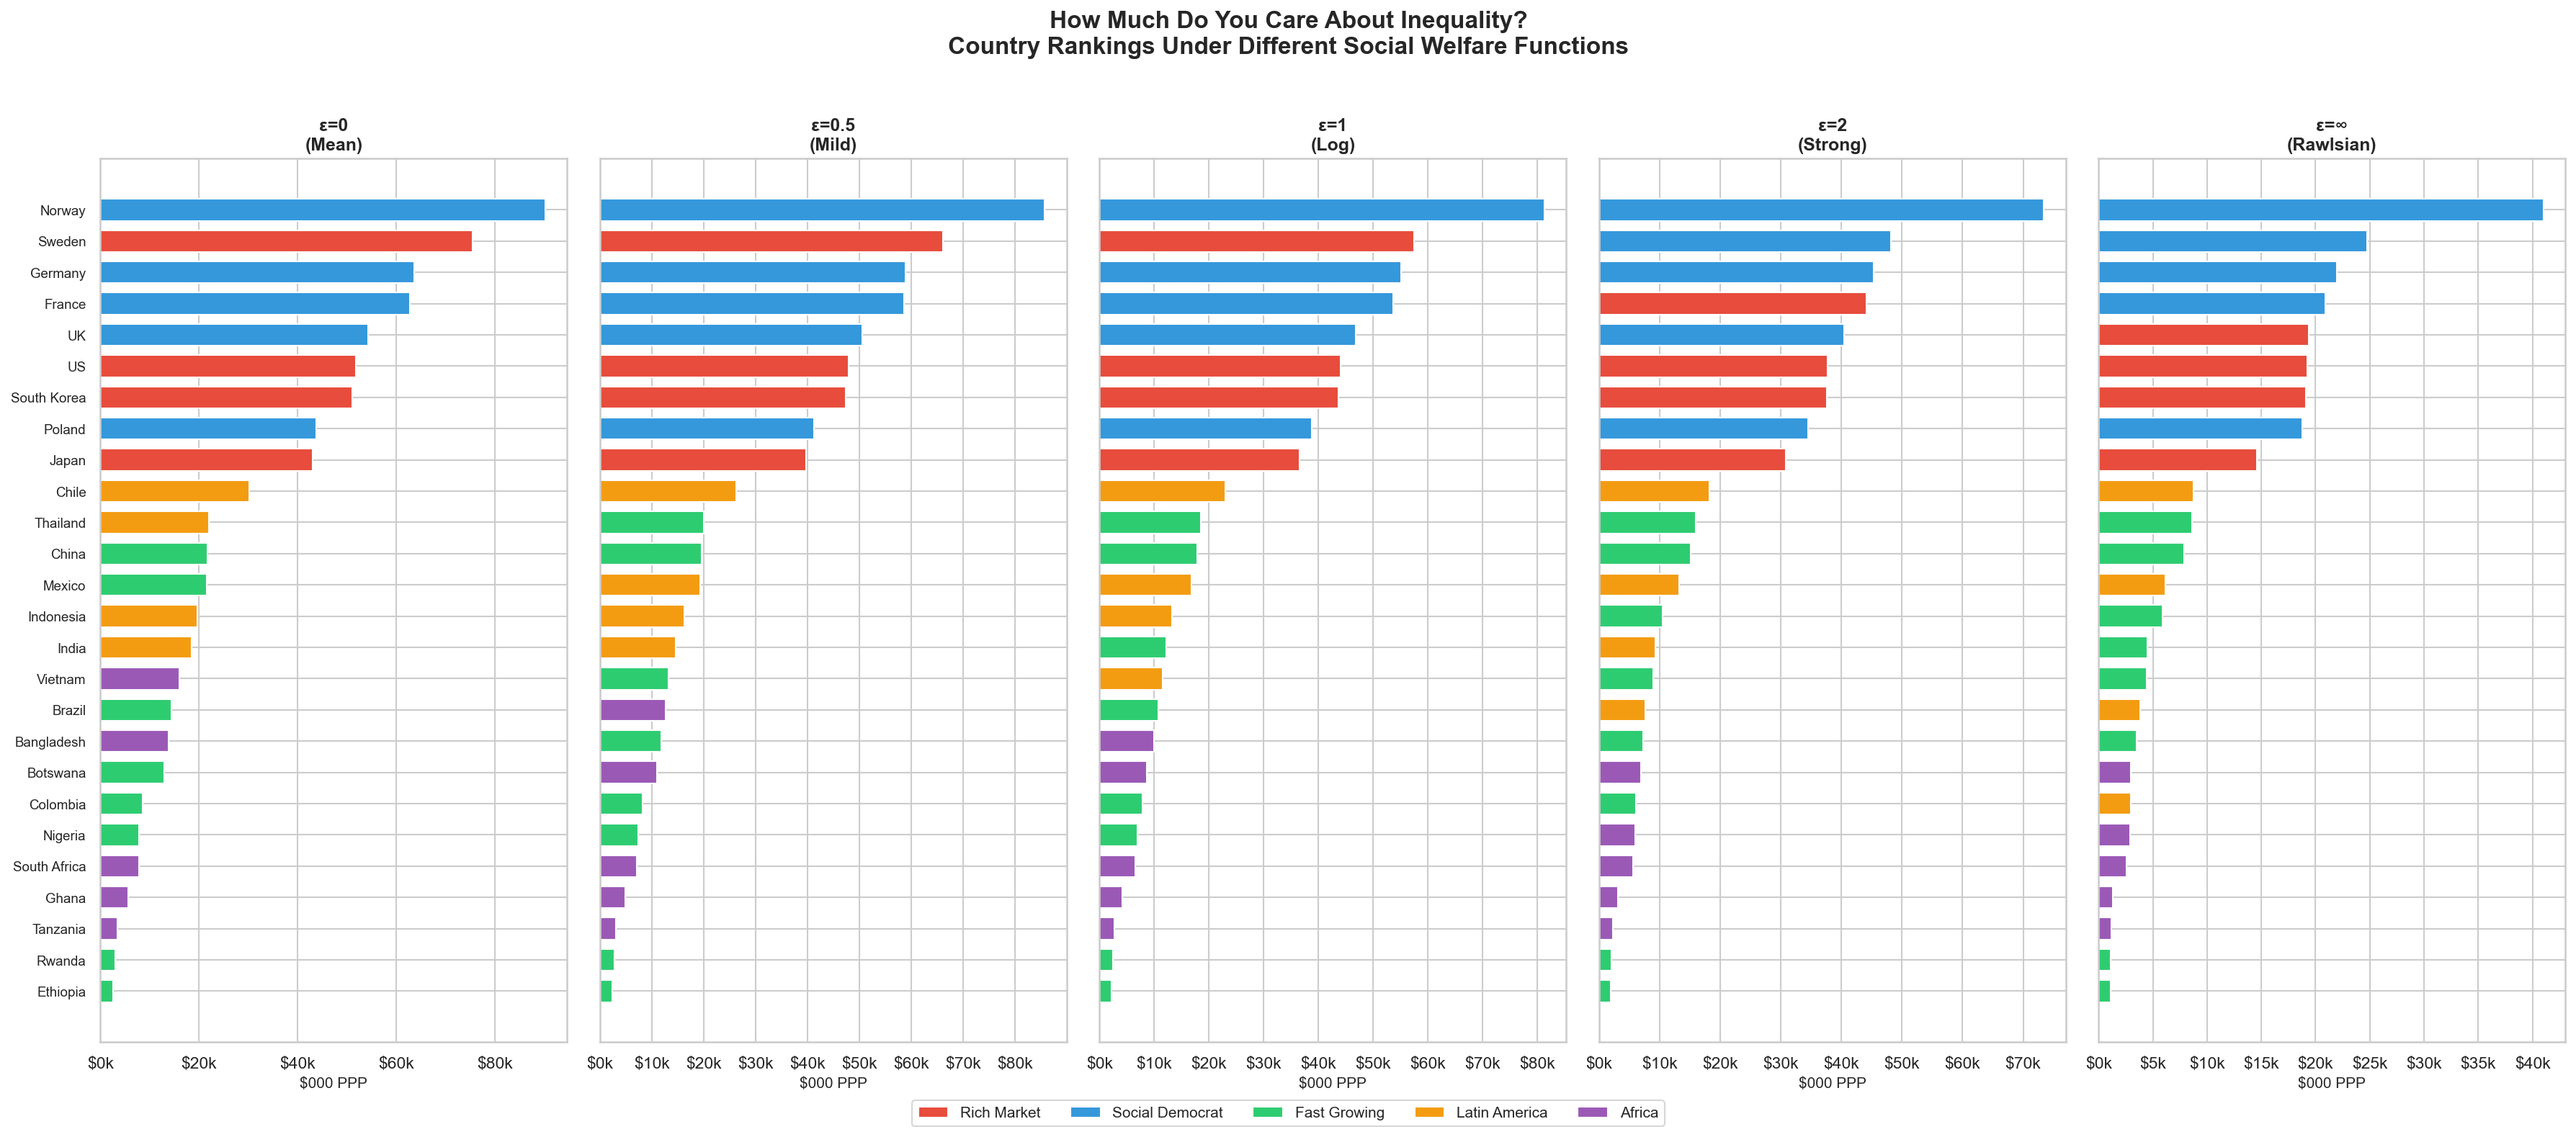
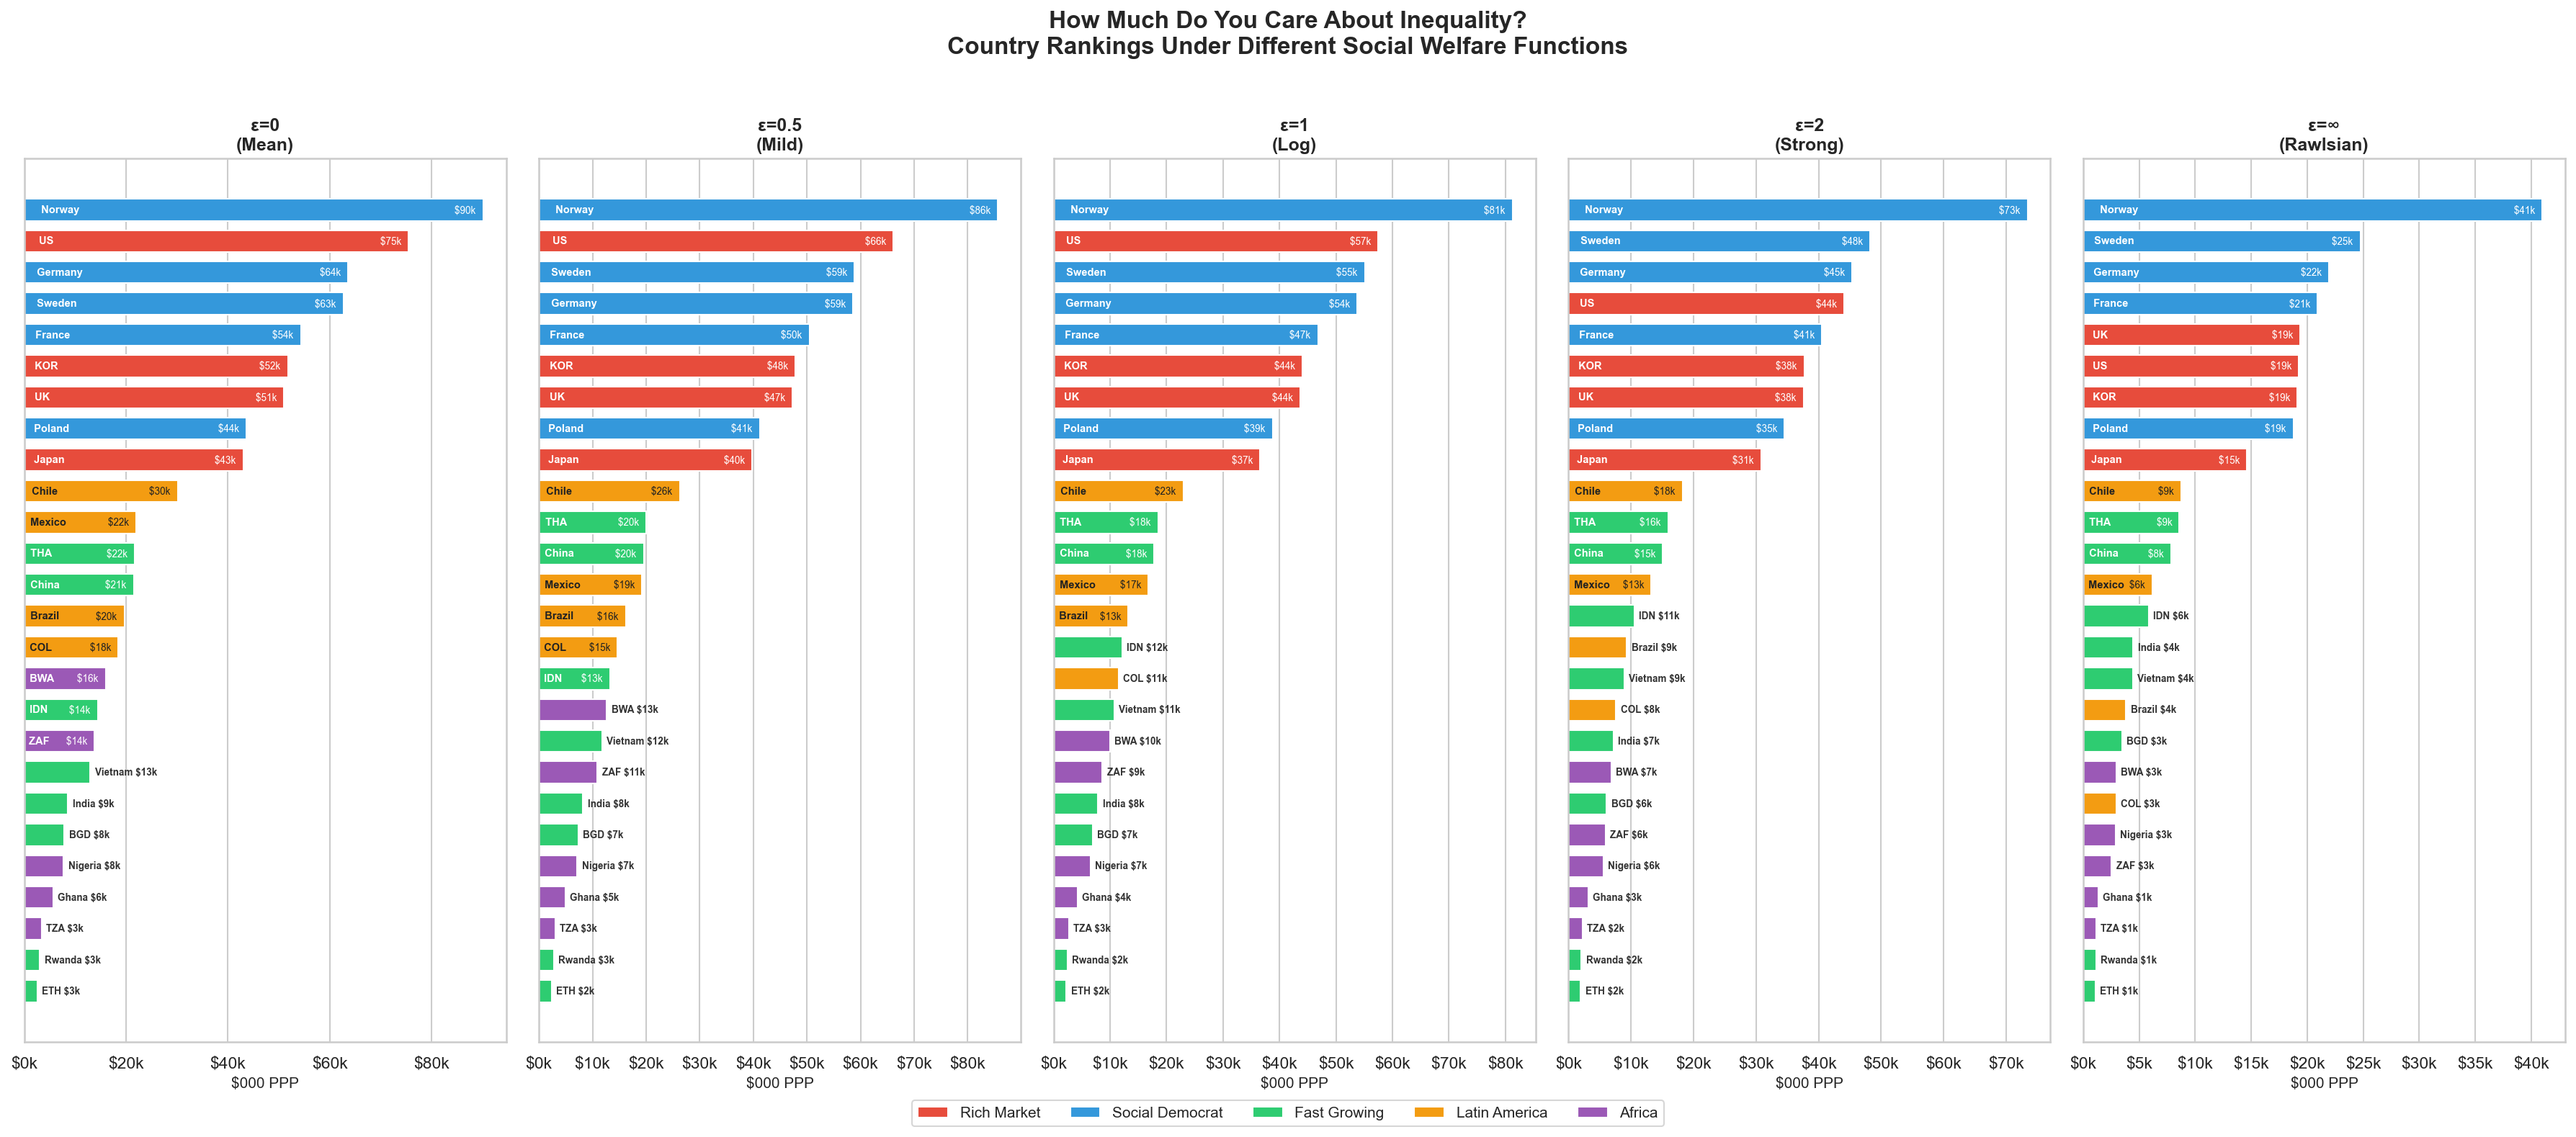
Fix Chart 52 readability + correct Norway/US ranking text
- Chart 52: add in-bar country labels with values so each panel
  is self-contained and readable without cross-referencing y-axis
- Fix README and script text: Norway leads at ALL epsilon values
  (was incorrectly claiming US leads at ε=0 despite Norway k > US k)

diff --git a/analysis/run_analysis_12.py b/analysis/run_analysis_12.py
@@ -199,7 +199,7 @@ latest['name'] = latest['cc'].map(NAMES)
 metrics = ['mean_inc', 'edei_05', 'edei_10', 'edei_20', 'rawls']
 labels = ['ε=0\n(Mean)', 'ε=0.5\n(Mild)', 'ε=1\n(Log)', 'ε=2\n(Strong)', 'ε=∞\n(Rawlsian)']
 
-fig, axes = plt.subplots(1, 5, figsize=(24, 10), sharey=True)
+fig, axes = plt.subplots(1, 5, figsize=(24, 10), sharey=False)
 fig.suptitle('How Much Do You Care About Inequality?\nCountry Rankings Under Different Social Welfare Functions',
              fontsize=16, fontweight='bold', y=1.02)
 
@@ -213,14 +213,41 @@ for g, ccs in GROUPS.items():
     for cc in ccs:
         cc_group[cc] = g
 
-latest_sorted = latest.sort_values('mean_inc', ascending=True)
+# Determine text color for contrast against bar color
+def _text_color(hex_color):
+    """White text on dark bars, dark text on light bars."""
+    r, g, b = int(hex_color[1:3], 16), int(hex_color[3:5], 16), int(hex_color[5:7], 16)
+    luminance = 0.299 * r + 0.587 * g + 0.114 * b
+    return 'white' if luminance < 160 else '#222222'
 
 for ax, metric, label in zip(axes, metrics, labels):
-    sorted_df = latest_sorted.sort_values(metric, ascending=True)
+    sorted_df = latest.sort_values(metric, ascending=True).reset_index(drop=True)
     colors = [group_colors.get(cc_group.get(cc, ''), '#666') for cc in sorted_df['cc']]
-    bars = ax.barh(range(len(sorted_df)), sorted_df[metric] / 1000, color=colors, height=0.7)
-    ax.set_yticks(range(len(sorted_df)))
-    ax.set_yticklabels([NAMES.get(cc, cc) for cc in sorted_df['cc']], fontsize=9)
+    vals = sorted_df[metric] / 1000
+    bars = ax.barh(range(len(sorted_df)), vals, color=colors, height=0.7)
+
+    # Label each bar with country code inside it
+    for i, (bar, cc, v) in enumerate(zip(bars, sorted_df['cc'], vals)):
+        bar_w = bar.get_width()
+        color = colors[i]
+        txt_color = _text_color(color)
+        name = NAMES.get(cc, cc)
+        # Short codes that fit inside bars — use ≤6 char names
+        short = cc if len(name) > 7 else name
+        # Place label inside bar near the left edge
+        if bar_w > vals.max() * 0.15:
+            ax.text(bar_w * 0.03, i, f' {short}', va='center', ha='left',
+                    fontsize=7, fontweight='bold', color=txt_color)
+            # Value at right end inside bar
+            ax.text(bar_w - vals.max() * 0.01, i, f'${v:.0f}k ',
+                    va='center', ha='right', fontsize=6.5, color=txt_color)
+        else:
+            # Very short bar — label outside
+            ax.text(bar_w + vals.max() * 0.01, i, f'{short} ${v:.0f}k',
+                    va='center', ha='left', fontsize=6.5, fontweight='bold',
+                    color='#333333')
+
+    ax.set_yticks([])  # No y-axis labels — country codes are on the bars
     ax.set_xlabel('$000 PPP', fontsize=10)
     ax.set_title(label, fontsize=12, fontweight='bold')
     ax.xaxis.set_major_formatter(mticker.FormatStrFormatter('$%.0fk'))
@@ -563,11 +590,12 @@ print("═"*80)
 print("""
 KEY FINDINGS:
 
-1. AT ε=0 (Mean): The US dominates ($75k). If all you care about is total
-   output per person, the US model wins decisively.
+1. AT ε=0 (Mean): Norway ($90k) leads, followed by the US ($75k).
+   Oil wealth is a confound, but Norway also shows you can escape
+   the resource curse through good institutions and redistribution.
 
-2. AT ε=1 (Log-utility): Norway ($81k), Germany ($54k), Sweden ($55k),
-   France ($47k) are close. The US ($57k) drops below Norway.
+2. AT ε=1 (Log-utility): Norway ($81k) extends its lead. The US ($57k)
+   falls behind Sweden ($55k), Germany ($54k). France ($47k) is close.
    China ($18k) shoots up, validating massive poverty reduction.
 
 3. AT ε=2 (Strong pro-poor): Norway ($73k) still leads. France ($41k)

diff --git a/README.md b/README.md
@@ -312,12 +312,12 @@ This is the Atkinson social welfare function question. The parameter ε controls
 - **ε = ∞**: Rawlsian — only the bottom 20% matters.
 
 ![Welfare rankings](charts/52_welfare_rankings.png)
-*Country rankings shift dramatically depending on how much you care about inequality. At ε=0 (mean), the US leads by far. At ε=∞ (Rawlsian), Norway leads and France, Germany, Sweden, Poland all beat the US. The "right" answer depends on your value judgment about ε.*
+*Country rankings shift dramatically depending on how much you care about inequality. Norway leads at every ε — its oil wealth, managed through a sovereign fund and strong redistribution, is a case study in escaping the resource curse. But the gap between Norway and the US narrows at ε=0 (mean income) and widens enormously at ε=∞ (Rawlsian), where France, Germany, Sweden, and Poland all beat the US. The "right" answer depends on your value judgment about ε.*
 
 | Country | Mean (ε=0) | ε=0.5 | ε=1 (Log) | ε=2 | Rawlsian |
 |---|---|---|---|---|---|
-| Norway | $90k | $86k | $81k | $73k | **$41k** |
-| **US** | **$75k** | $66k | $57k | $44k | $19k |
+| **Norway** | **$90k** | **$86k** | **$81k** | **$73k** | **$41k** |
+| US | $75k | $66k | $57k | $44k | $19k |
 | Germany | $64k | $59k | $54k | $45k | $22k |
 | Sweden | $63k | $59k | $55k | $48k | $25k |
 | France | $54k | $50k | $47k | $41k | $21k |
